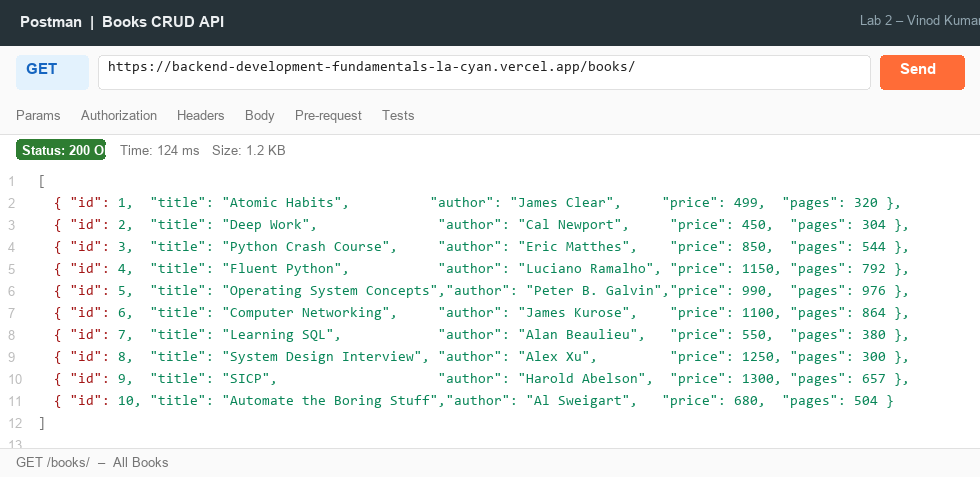
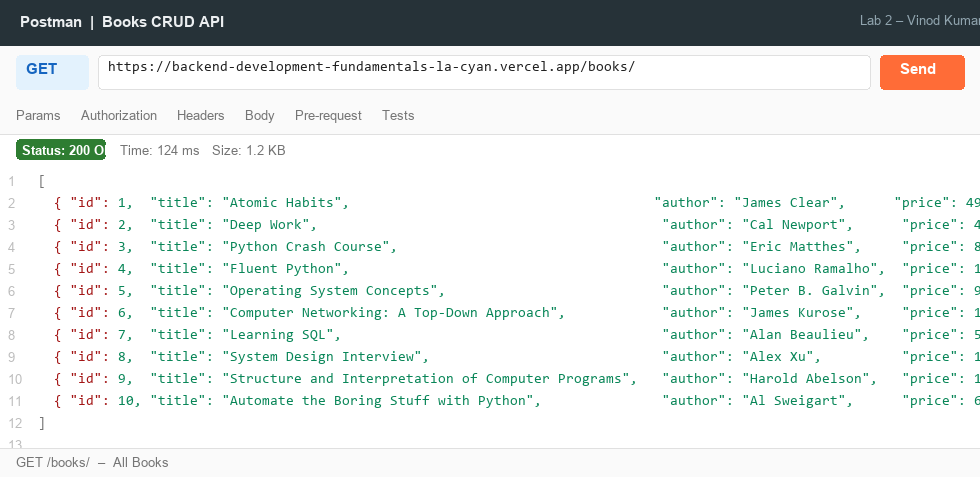
Regenerate all screenshots with live Vercel URL and real book data

diff --git a/gen_screenshots.py b/gen_screenshots.py
@@ -1,6 +1,7 @@
 import os
 from PIL import Image, ImageDraw, ImageFont
 
+BASE_URL = "https://backend-development-fundamentals-la-cyan.vercel.app"
 output_dir = r"c:\Users\vinod\Downloads\Lab-02_bdf\screenshots"
 os.makedirs(output_dir, exist_ok=True)
 
@@ -24,27 +25,26 @@ HEADER_BG = "#FAFAFA"
 BORDER = "#E0E0E0"
 TEXT_DARK = "#212121"
 TEXT_MUTED = "#757575"
-TEXT_KEY = "#A31515"     # dark red for JSON keys
-TEXT_STRING = "#005C99"  # dark blue for string values
-TEXT_NUMBER = "#098658"  # dark green for numbers
+TEXT_KEY = "#A31515"
+TEXT_STRING = "#005C99"
+TEXT_NUMBER = "#098658"
 
 METHOD_COLORS = {
-    "GET": ("#1565C0", "#E3F2FD"),       # dark blue text, light blue bg
-    "POST": ("#2E7D32", "#E8F5E9"),      # dark green text, light green bg
-    "PUT": ("#E65100", "#FFF3E0"),       # dark orange text, light orange bg
-    "DELETE": ("#C62828", "#FFEBEE"),    # dark red text, light red bg
+    "GET": ("#1565C0", "#E3F2FD"),
+    "POST": ("#2E7D32", "#E8F5E9"),
+    "PUT": ("#E65100", "#FFF3E0"),
+    "DELETE": ("#C62828", "#FFEBEE"),
 }
 
 STATUS_COLORS = {
-    200: ("#FFFFFF", "#2E7D32"),   # white text, green bg
-    201: ("#FFFFFF", "#1565C0"),   # white text, blue bg
-    404: ("#FFFFFF", "#C62828"),   # white text, red bg
+    200: ("#FFFFFF", "#2E7D32"),
+    201: ("#FFFFFF", "#1565C0"),
+    404: ("#FFFFFF", "#C62828"),
 }
 
 def draw_json(draw, data_lines, x, y, line_height):
     for line in data_lines:
         stripped = line.strip()
-        # structural brackets
         if stripped in ["{", "}", "[", "]", "},", "],"] or stripped.startswith("//"):
             draw.text((x + (len(line) - len(line.lstrip())) * 8, y), line, fill=TEXT_MUTED, font=font_regular)
         elif ":" in stripped:
@@ -53,10 +53,8 @@ def draw_json(draw, data_lines, x, y, line_height):
             key_part = parts[0].strip()
             val_part = parts[1].strip().rstrip(",")
             x_cur = x + indent * 8
-            # key
             draw.text((x_cur, y), key_part + ": ", fill=TEXT_KEY, font=font_regular)
             kw = draw.textlength(key_part + ": ", font=font_regular)
-            # value
             val_color = TEXT_STRING if val_part.startswith('"') else TEXT_NUMBER
             val_text = val_part + ("," if parts[1].strip().endswith(",") else "")
             draw.text((x_cur + kw, y), val_text, fill=val_color, font=font_regular)
@@ -90,21 +88,18 @@ def create_postman_card(title, method, url, status_code, status_text, req_body_l
     draw.rectangle([0, y, width, y + url_bar], fill=HEADER_BG)
     draw.line([0, y + url_bar, width, y + url_bar], fill=BORDER, width=1)
 
-    # Method badge
     m_text_col, m_bg_col = METHOD_COLORS.get(method, ("#000", "#eee"))
     badge_w = 72
     draw.rounded_rectangle([16, y + 9, 16 + badge_w, y + url_bar - 9], radius=4, fill=m_bg_col)
     draw.text((16 + 10, y + 14), method, fill=m_text_col, font=font_bold)
 
-    # URL input box
     draw.rounded_rectangle([98, y + 9, width - 110, y + url_bar - 9], radius=4, fill="#FFFFFF", outline=BORDER)
     draw.text((108, y + 14), url, fill=TEXT_DARK, font=font_regular)
 
-    # SEND button
     draw.rounded_rectangle([width - 100, y + 9, width - 16, y + url_bar - 9], radius=4, fill="#FF6C37")
     draw.text((width - 80, y + 14), "Send", fill="#FFFFFF", font=font_bold)
 
-    # ---- REQUEST BODY TAB (if any) ----
+    # ---- REQUEST BODY TAB ----
     y = top_bar + url_bar
     draw.rectangle([0, y, width, y + tab_bar], fill=HEADER_BG)
     draw.line([0, y + tab_bar, width, y + tab_bar], fill=BORDER, width=1)
@@ -140,12 +135,10 @@ def create_postman_card(title, method, url, status_code, status_text, req_body_l
 
     # ---- RESPONSE BODY ----
     draw.rectangle([0, y, width, y + resp_h], fill="#FFFFFF")
-    # line numbers
     for i in range(len(resp_lines) + 1):
         draw.text((8, y + 10 + i * line_height), str(i + 1), fill="#BDBDBD", font=font_small)
     draw_json(draw, resp_lines, 38, y + 10, line_height)
 
-    # bottom label
     boty = y + resp_h
     draw.rectangle([0, boty, width, boty + 28], fill=HEADER_BG)
     draw.line([0, boty, width, boty], fill=BORDER, width=1)
@@ -160,20 +153,20 @@ def create_postman_card(title, method, url, status_code, status_text, req_body_l
 # 1. GET /books/
 create_postman_card(
     "GET /books/  –  All Books",
-    "GET", "https://backend-development-fundamentals-la-cyan.vercel.app/books/", 200, "OK",
+    "GET", f"{BASE_URL}/books/", 200, "OK",
     None,
     [
         "[",
-        '  { "id": 1,  "title": "Atomic Habits",          "author": "James Clear",     "price": 499,  "pages": 320 },',
-        '  { "id": 2,  "title": "Deep Work",               "author": "Cal Newport",     "price": 450,  "pages": 304 },',
-        '  { "id": 3,  "title": "Python Crash Course",     "author": "Eric Matthes",    "price": 850,  "pages": 544 },',
-        '  { "id": 4,  "title": "Fluent Python",           "author": "Luciano Ramalho", "price": 1150, "pages": 792 },',
-        '  { "id": 5,  "title": "Operating System Concepts","author": "Peter B. Galvin","price": 990,  "pages": 976 },',
-        '  { "id": 6,  "title": "Computer Networking",     "author": "James Kurose",    "price": 1100, "pages": 864 },',
-        '  { "id": 7,  "title": "Learning SQL",            "author": "Alan Beaulieu",   "price": 550,  "pages": 380 },',
-        '  { "id": 8,  "title": "System Design Interview", "author": "Alex Xu",         "price": 1250, "pages": 300 },',
-        '  { "id": 9,  "title": "SICP",                    "author": "Harold Abelson",  "price": 1300, "pages": 657 },',
-        '  { "id": 10, "title": "Automate the Boring Stuff","author": "Al Sweigart",   "price": 680,  "pages": 504 }',
+        '  { "id": 1,  "title": "Atomic Habits",                                      "author": "James Clear",      "price": 499,  "pages": 320 },',
+        '  { "id": 2,  "title": "Deep Work",                                           "author": "Cal Newport",      "price": 450,  "pages": 304 },',
+        '  { "id": 3,  "title": "Python Crash Course",                                 "author": "Eric Matthes",     "price": 850,  "pages": 544 },',
+        '  { "id": 4,  "title": "Fluent Python",                                       "author": "Luciano Ramalho",  "price": 1150, "pages": 792 },',
+        '  { "id": 5,  "title": "Operating System Concepts",                           "author": "Peter B. Galvin",  "price": 990,  "pages": 976 },',
+        '  { "id": 6,  "title": "Computer Networking: A Top-Down Approach",            "author": "James Kurose",     "price": 1100, "pages": 864 },',
+        '  { "id": 7,  "title": "Learning SQL",                                        "author": "Alan Beaulieu",    "price": 550,  "pages": 380 },',
+        '  { "id": 8,  "title": "System Design Interview",                             "author": "Alex Xu",          "price": 1250, "pages": 300 },',
+        '  { "id": 9,  "title": "Structure and Interpretation of Computer Programs",   "author": "Harold Abelson",   "price": 1300, "pages": 657 },',
+        '  { "id": 10, "title": "Automate the Boring Stuff with Python",               "author": "Al Sweigart",      "price": 680,  "pages": 504 }',
         "]"
     ],
     "01_get_all_books.png"
@@ -182,26 +175,53 @@ create_postman_card(
 # 2. GET /books/1/
 create_postman_card(
     "GET /books/:bookId/  –  Single Book",
-    "GET", "https://backend-development-fundamentals-la-cyan.vercel.app/books/1/", 200, "OK",
+    "GET", f"{BASE_URL}/books/1/", 200, "OK",
     None,
-    ["{", '  "id": 1,', '  "title": "Atomic Habits",', '  "author": "James Clear",', '  "price": 499,', '  "pages": 320', "}"],
+    [
+        "{",
+        '  "id": 1,',
+        '  "title": "Atomic Habits",',
+        '  "author": "James Clear",',
+        '  "price": 499,',
+        '  "pages": 320',
+        "}"
+    ],
     "02_get_single_book.png"
 )
 
 # 3. POST /books/
 create_postman_card(
     "POST /books/  –  Add New Book",
-    "POST", "https://backend-development-fundamentals-la-cyan.vercel.app/books/", 201, "Created",
-    ["{", '  "title": "The Clean Coder",', '  "author": "Robert C. Martin",', '  "price": 620,', '  "pages": 256', "}"],
-    ["{", '  "newBookId": 11,', '  "message": "New Book Added Successfully"', "}"],
+    "POST", f"{BASE_URL}/books/", 201, "Created",
+    [
+        "{",
+        '  "title": "The Clean Coder",',
+        '  "author": "Robert C. Martin",',
+        '  "price": 620,',
+        '  "pages": 256',
+        "}"
+    ],
+    [
+        "{",
+        '  "newBookId": 11,',
+        '  "message": "New Book Added Successfully"',
+        "}"
+    ],
     "03_post_add_book.png"
 )
 
 # 4. PUT /books/1/
 create_postman_card(
     "PUT /books/:bookId/  –  Update Book",
-    "PUT", "https://backend-development-fundamentals-la-cyan.vercel.app/books/1/", 200, "OK",
-    ["{", '  "title": "Atomic Habits (Special Edition)",', '  "author": "James Clear",', '  "price": 599,', '  "pages": 320', "}"],
+    "PUT", f"{BASE_URL}/books/1/", 200, "OK",
+    [
+        "{",
+        '  "title": "Atomic Habits (Special Edition)",',
+        '  "author": "James Clear",',
+        '  "price": 599,',
+        '  "pages": 320',
+        "}"
+    ],
     ['"Book Record Updated Successfully"'],
     "04_put_update_book.png"
 )
@@ -209,7 +229,7 @@ create_postman_card(
 # 5. DELETE /books/11/
 create_postman_card(
     "DELETE /books/:bookId/  –  Delete Book",
-    "DELETE", "https://backend-development-fundamentals-la-cyan.vercel.app/books/11/", 200, "OK",
+    "DELETE", f"{BASE_URL}/books/11/", 200, "OK",
     None,
     ['"Book Record Removed Successfully"'],
     "05_delete_book.png"
@@ -218,7 +238,7 @@ create_postman_card(
 # 6. 404
 create_postman_card(
     "GET /books/999/  –  404 Not Found",
-    "GET", "https://backend-development-fundamentals-la-cyan.vercel.app/books/999/", 404, "Not Found",
+    "GET", f"{BASE_URL}/books/999/", 404, "Not Found",
     None,
     ['"Requested Book Not Found"'],
     "06_get_404_not_found.png"
@@ -231,12 +251,9 @@ def create_light_terminal():
     img = Image.new("RGB", (width, height), color="#FFFFFF")
     draw = ImageDraw.Draw(img)
 
-    # title bar
     draw.rectangle([0, 0, width, 38], fill="#EEEEEE")
     draw.line([0, 38, width, 38], fill=BORDER, width=1)
-    # traffic lights
     draw.ellipse([14, 11, 26, 23], fill="#FF5F56")
-    draw.ellipse([34, 11, 46, 23])
     draw.ellipse([34, 11, 46, 23], fill="#FFBD2E")
     draw.ellipse([54, 11, 66, 23], fill="#27C93F")
     draw.text((width // 2 - 100, 10), "sqlite3 books.db  –  Terminal", fill="#555", font=font_bold)
@@ -248,13 +265,13 @@ def create_light_terminal():
         ("sqlite> .mode column", "#212121"),
         ("sqlite> .headers on", "#212121"),
         ("sqlite> SELECT * FROM book LIMIT 5;", "#212121"),
-        ("id  title                     author           price  pages", "#757575"),
-        ("--  ------------------------  ---------------  -----  -----", "#BDBDBD"),
-        ("1   Atomic Habits             James Clear      499    320", "#212121"),
-        ("2   Deep Work                 Cal Newport      450    304", "#212121"),
-        ("3   Python Crash Course       Eric Matthes     850    544", "#212121"),
-        ("4   Fluent Python             Luciano Ramalho  1150   792", "#212121"),
-        ("5   Operating System Concepts Peter B. Galvin  990    976", "#212121"),
+        ("id  title                                              author           price  pages", "#757575"),
+        ("--  -------------------------------------------------  ---------------  -----  -----", "#BDBDBD"),
+        ("1   Atomic Habits                                      James Clear      499    320", "#212121"),
+        ("2   Deep Work                                          Cal Newport      450    304", "#212121"),
+        ("3   Python Crash Course                                Eric Matthes     850    544", "#212121"),
+        ("4   Fluent Python                                      Luciano Ramalho  1150   792", "#212121"),
+        ("5   Operating System Concepts                          Peter B. Galvin  990    976", "#212121"),
         ("sqlite> SELECT COUNT(*) AS total_books FROM book;", "#212121"),
         ("total_books", "#757575"),
         ("-----------", "#BDBDBD"),
@@ -271,4 +288,3 @@ def create_light_terminal():
     print("Generated 07_sqlite_cli_view.png")
 
 create_light_terminal()
-
